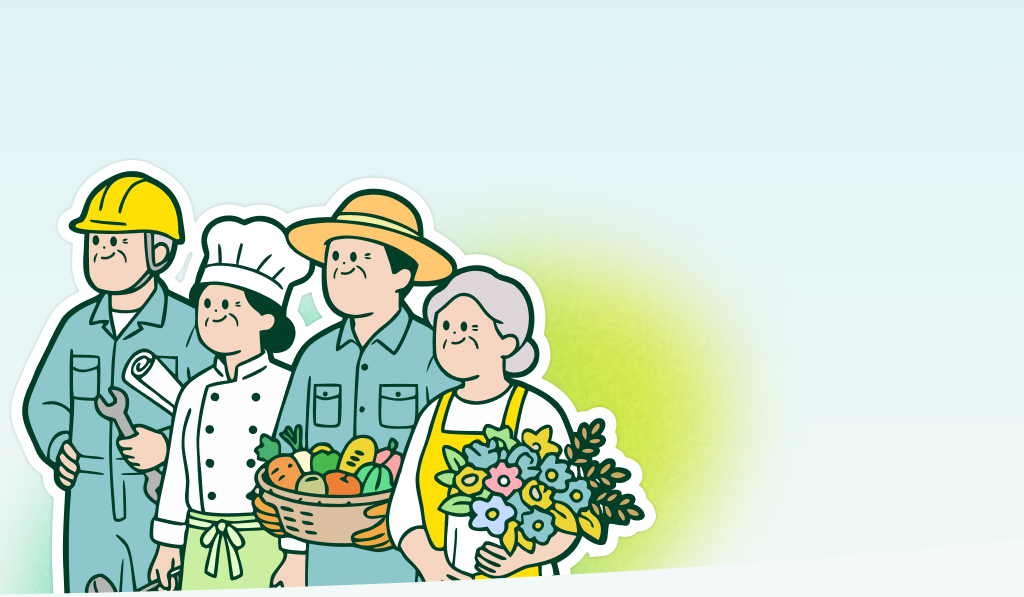
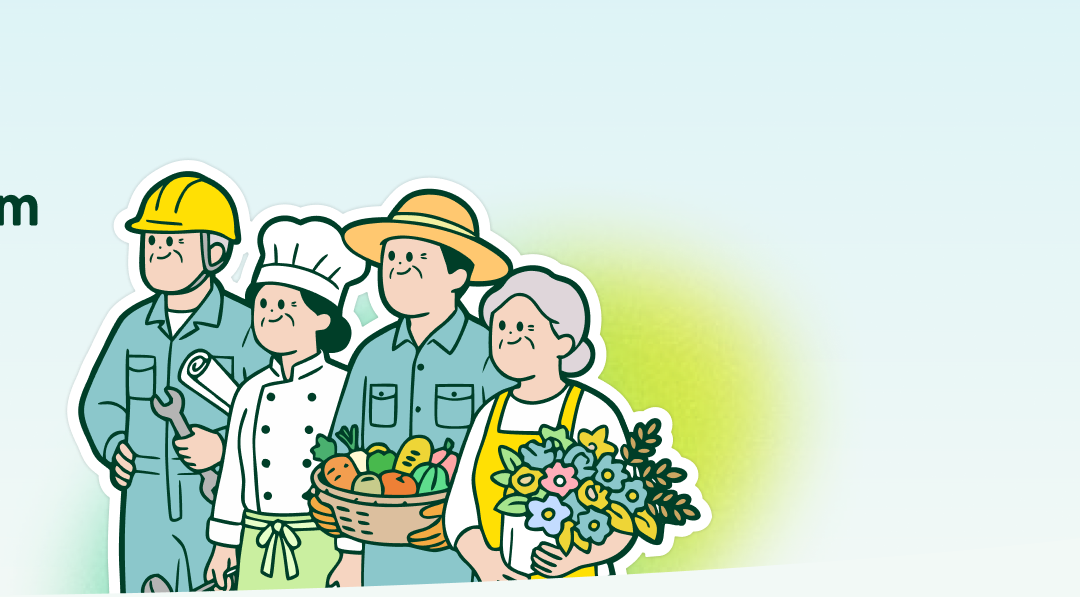
fix(hero): sharper illustrations and curved bottom trim
Two visual fixes for the hero banner:

1. Illustrations were rendering soft. Two contributing causes addressed:
   - the linear-gradient mask-image we applied to fade the inner edge
     was adding a perceptible blur on the bitmap. Dropped it — the
     gradient backdrop already extends across the full hero, so the
     cropped illustrations sit on the same background and the seam is
     barely visible without the mask
   - re-cropped the source PNGs slightly wider (1024 → 1080 px each)
     to keep more pixels in the rendered image, and added
     width/height attributes so the browser knows the intrinsic size
     plus image-rendering: -webkit-optimize-contrast as a hint

2. Reproduce the Figma's circular bottom trim in CSS instead of an
   image. border-bottom-{left,right}-radius: 50% 64px gives a wide,
   shallow concave bottom (50% horizontal × 64 px vertical radii meet
   at the centerline). overflow: hidden clips the illustrations to
   match. Content padding bottom extended to 64 so the title / CTA
   don't sit inside the curve cut-off zone.

Changed region(s): [[0.0, 0.2714, 0.7188, 0.995]]

diff --git a/examples/index.html b/examples/index.html
@@ -268,7 +268,7 @@
     }
 
     /* Hero banner — full-width inside docs-main, left / right illustrations
-     * bracket an HTML title + CTA */
+     * bracket an HTML title + CTA. Bottom edge curves via border-radius. */
     .docs-hero {
       display: flex;
       align-items: center;
@@ -276,7 +276,12 @@
       gap: 0;
       width: 100%;
       background: radial-gradient(ellipse at center, #d9ebea 0%, #e7f6f6 70%);
-      border-bottom: 1px solid var(--color-stroke-low);
+      /* 円形状の底辺トリミング — 左右対称の浅い U 字カーブ。
+       * horizontal radius 50% × vertical radius 64px で
+       * 全幅で滑らかな弧を描く。 */
+      border-bottom-left-radius: 50% 64px;
+      border-bottom-right-radius: 50% 64px;
+      overflow: hidden;
     }
     .docs-hero-illust {
       flex-shrink: 0;
@@ -285,14 +290,8 @@
       height: auto;
       pointer-events: none;
       user-select: none;
-      /* fade the inner edge into the gradient so the cropped illustration
-       * doesn't show a hard seam against the CSS background */
-      -webkit-mask-image: linear-gradient(to right, black 70%, transparent 100%);
-              mask-image: linear-gradient(to right, black 70%, transparent 100%);
-    }
-    .docs-hero-illust-right {
-      -webkit-mask-image: linear-gradient(to left, black 70%, transparent 100%);
-              mask-image: linear-gradient(to left, black 70%, transparent 100%);
+      /* hi-DPI ダウンスケール時のシャープネス維持 */
+      image-rendering: -webkit-optimize-contrast;
     }
     .docs-hero-content {
       flex: 1;
@@ -301,7 +300,7 @@
       align-items: center;
       justify-content: center;
       gap: 16px;
-      padding: 32px 16px;
+      padding: 32px 16px 64px;   /* extra bottom pad accounts for the curve */
       text-align: center;
     }
     .docs-hero-title {
@@ -319,7 +318,7 @@
     /* Compact mode for narrow viewports — hide illustrations, keep content */
     @media (max-width: 640px) {
       .docs-hero-illust { display: none; }
-      .docs-hero-content { padding: 32px 16px; }
+      .docs-hero-content { padding: 40px 16px 56px; }
     }
 
     /* Scroll offset for anchor jumps */
@@ -392,7 +391,8 @@
            ===================================================================== -->
       <section class="docs-hero">
         <img class="docs-hero-illust docs-hero-illust-left"
-             src="./assets/hero-left.png" alt="" aria-hidden="true">
+             src="./assets/hero-left.png" alt="" aria-hidden="true"
+             width="1080" height="597">
         <div class="docs-hero-content">
           <h1 class="docs-hero-title">relay Design System<br>へようこそ</h1>
           <a class="btn btn-sm btn-primary btn-outline"
@@ -403,7 +403,8 @@
           </a>
         </div>
         <img class="docs-hero-illust docs-hero-illust-right"
-             src="./assets/hero-right.png" alt="" aria-hidden="true">
+             src="./assets/hero-right.png" alt="" aria-hidden="true"
+             width="1080" height="597">
       </section>
 
   <main class="max-w-5xl mx-auto px-6 py-10 space-y-16">
